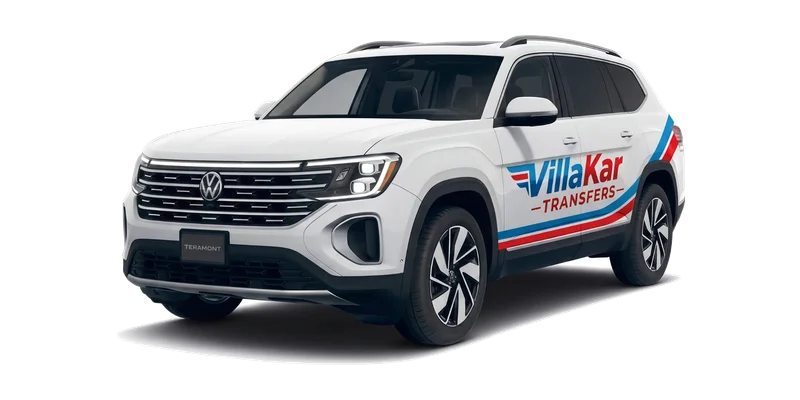
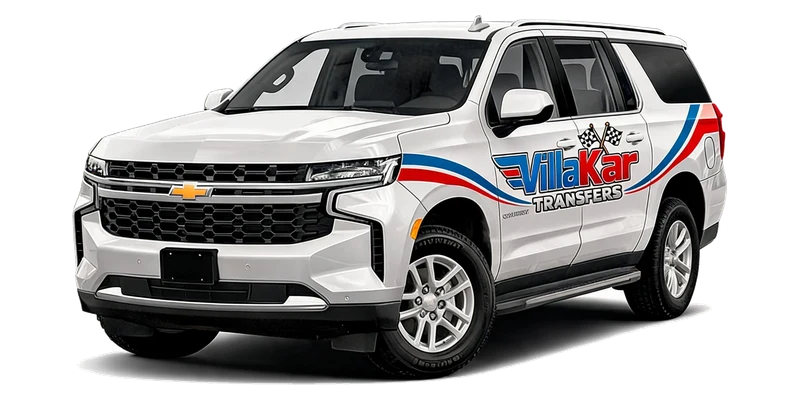
Vehiculo V.I.P: nueva foto (Chevrolet con la imagen de VillaKar) en lugar de la anterior

diff --git a/frontend/admin/src/config/catalog.ts b/frontend/admin/src/config/catalog.ts
@@ -11,7 +11,7 @@ export const VEHICLE_STATUS: Record<VehicleStatus, { label: string; tone: BadgeT
 /** Fotos disponibles en el sitio público (frontend/booking/public/vehicles). */
 export const VEHICLE_IMAGES = [
   { path: '/vehicles/jetta.webp', label: 'Volkswagen Jetta' },
-  { path: '/vehicles/vip.webp', label: 'Volkswagen Teramont' },
+  { path: '/vehicles/vip.webp', label: 'Chevrolet Suburban' },
   { path: '/vehicles/transit.webp', label: 'Ford Transit' },
 ];
 

diff --git a/backend/prisma/seed.ts b/backend/prisma/seed.ts
@@ -18,7 +18,7 @@ const VEHICLE_TYPES = [
   {
     code: 'CARRITO',
     name: 'Carrito',
-    description: 'Volkswagen Teramont or similar',
+    description: 'Chevrolet Suburban or similar',
     maxPassengers: 4,
     maxLuggage: 4,
     imageUrl: '/vehicles/vip.webp',
